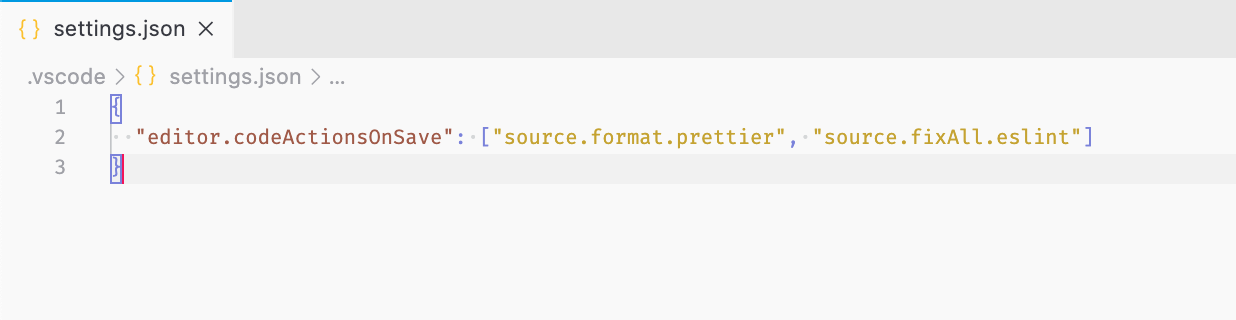
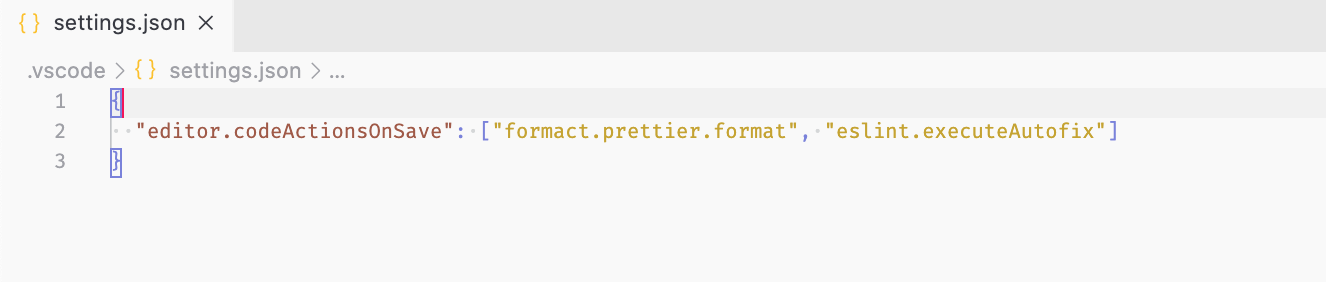
fix: command name

Changed region(s): [[0.0, 0.1986, 0.8916, 0.6241], [0.0, 0.0567, 0.1845, 0.1418], [0.0, 0.0, 0.1845, 0.0284]]

diff --git a/src/extension.ts b/src/extension.ts
@@ -1,10 +1,11 @@
 /* eslint-disable @typescript-eslint/no-floating-promises */
 import * as vscode from 'vscode'
+import * as util from 'util'
 import { ExtensionsLogging } from 'vscode-extensions-logging'
 import prettier from 'prettier'
 
 const EXTENSION_ID = 'formact-prettier'
-const formatCommandKey = 'source.format.prettier'
+const formatCommandKey = 'formact.prettier.format'
 
 export function activate (context: vscode.ExtensionContext) {
   try {
@@ -39,12 +40,15 @@ export function activate (context: vscode.ExtensionContext) {
         logger.info(`language not found for file: ${fileName}`)
         return
       }
+      logger.info(`using language: ${document.languageId}`)
       const parser = language.parsers[0]
       if (!parser) {
         logger.info(`parser not found for file: ${fileName}`)
         return
       }
+      logger.info(`using parser: ${parser}`)
       const options = await prettier.resolveConfig(fileName)
+      logger.info(`using options: ${util.inspect(options, false, 5, false)}`)
       const formattedCode = prettier.format(
         code,
         Object.assign({}, options, {

diff --git a/README.md b/README.md
@@ -21,10 +21,10 @@ This extensions add an action that can be called in vscode command (Crtl+Shift+p
 
 ![command](assets/formact.command.png)
 
-Can be used with [formact extension](https://github.com/adrielcodeco/vscode-formact) passing `source.format.prettier` action
+Can be used with [formact extension](https://github.com/adrielcodeco/vscode-formact) passing `formact.prettier.format` action
 
 ![formact config](assets/formact.config.png)
 
-Or can be used on `editor.codeActionsOnSave` passing `source.format.prettier` action
+Or can be used on `editor.codeActionsOnSave` passing `formact.prettier.format` action
 
 ![editor.codeActionsOnSave](assets/codeActionsOnSave.png)
